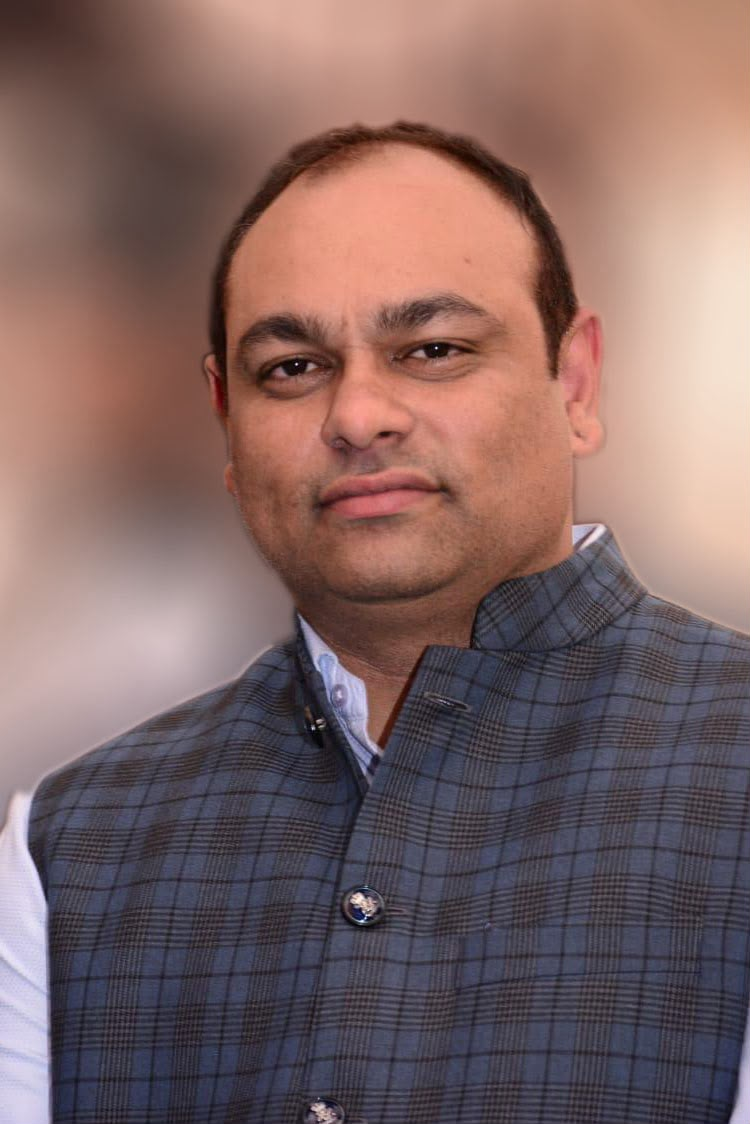
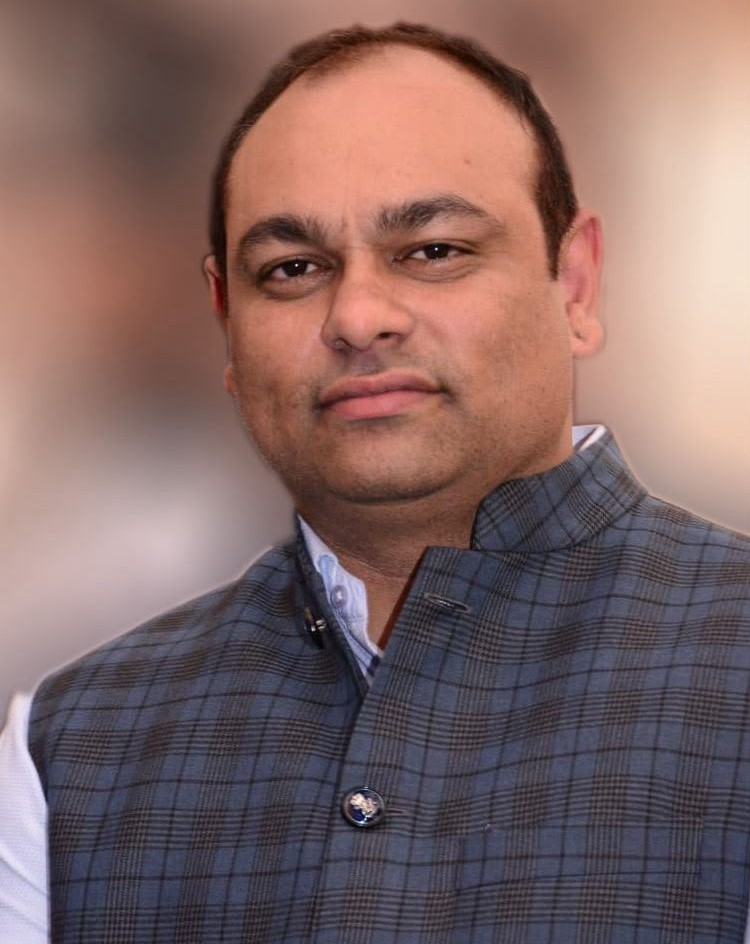
changed images

diff --git a/frontend/components/about/FounderSection.tsx b/frontend/components/about/FounderSection.tsx
@@ -28,26 +28,26 @@ export default function FounderSection() {
       {/* navy slanted panel behind the quote (desktop) */}
       <div
         aria-hidden
-        className="absolute inset-y-10 left-[33.5%] right-0 hidden bg-[#2a2a6b] lg:block 3xl:inset-y-14 3xl:left-[calc(50%-520px)] 4xl:inset-y-16 4xl:left-[calc(50%-640px)] [clip-path:polygon(0_12%,100%_0,100%_100%,0_88%)]"
+        className="absolute inset-y-10 left-[30.5%] right-0 hidden bg-[#2a2a6b] lg:block 3xl:inset-y-14 3xl:left-[calc(50%-520px)] 4xl:inset-y-16 4xl:left-[calc(50%-640px)] [clip-path:polygon(0_12%,100%_0,100%_100%,0_88%)]"
       />
       {/* small navy strip peeking on the left (desktop) */}
       <div
         aria-hidden
-        className="absolute bottom-[20%] left-0 top-[22%] 2xl:bottom-[18%] 2xl:top-[18%] hidden w-24 bg-[#2a2a6b] lg:block 3xl:w-[max(6rem,calc(50%-640px))] 4xl:w-[max(6rem,calc(50%-780px))]"
+        className="absolute bottom-[20%] left-0 top-[20%] 2xl:bottom-[18%] 2xl:top-[18%] hidden w-44 bg-[#2a2a6b] lg:block 3xl:w-[max(8rem,calc(50%-640px))] 4xl:w-[max(8rem,calc(50%-780px))]"
       />
 
-      <div className="relative mx-auto grid max-w-[90vw] items-center gap-0 sm:max-w-[85vw] lg:max-w-[1100px] 3xl:max-w-[1450px] 4xl:max-w-[1700px] lg:grid-cols-[400px_1fr] 3xl:grid-cols-[480px_1fr] 4xl:grid-cols-[540px_1fr] lg:gap-10 3xl:gap-16">
+      <div className="relative mx-auto grid max-w-[90vw] items-center gap-0 sm:max-w-[85vw] lg:max-w-[1100px] 3xl:max-w-[1450px] 4xl:max-w-[1700px] lg:grid-cols-[360px_1fr] 3xl:grid-cols-[440px_1fr] 4xl:grid-cols-[500px_1fr] lg:gap-10 3xl:gap-16">
         {/* Founder photo card */}
         <Reveal
           y={32}
-          className="relative z-10 mx-auto w-full max-w-[320px] sm:max-w-[380px] lg:mx-0 lg:max-w-none lg:-ml-[20px] xl:-ml-[107px] 3xl:-ml-[140px] 4xl:-ml-[160px]"
+          className="relative z-10 mx-auto w-full max-w-[320px] sm:max-w-[380px] lg:mx-0 lg:max-w-none lg:-ml-[0px] min-[1500px]:-ml-[77px] 3xl:-ml-[140px] 4xl:-ml-[160px]"
         >
-          <div className="relative h-[320px] w-full overflow-hidden rounded-[28px] border-[5px] border-white bg-[#2a2a6b] shadow-[0_16px_40px_rgba(42,42,107,0.25)] sm:h-[380px] sm:rounded-[36px] sm:border-[6px] md:h-[460px] 3xl:h-[540px] 4xl:h-[620px]">
+          <div className="relative h-[320px] w-full overflow-hidden rounded-[28px] border-[5px] border-white bg-[#2a2a6b] shadow-[0_16px_40px_rgba(42,42,107,0.25)] sm:h-[380px] sm:rounded-[36px] sm:border-[6px] md:h-[360px] xl:h-[400px] 3xl:h-[540px] 4xl:h-[620px]">
             <FadeImage
               src={founderImage}
               alt={`${OWNER}, founder of ${COMPANY}`}
               fill
-              sizes="(min-width: 1024px) 400px, 380px"
+              sizes="(min-width: 1024px) 360px, 380px"
               className="object-cover object-top"
             />
           </div>

diff --git a/frontend/components/sections/hero-section.tsx b/frontend/components/sections/hero-section.tsx
@@ -107,8 +107,8 @@ const defaultSlides: HeroSlide[] = [
     image: "/hero-backup/handmade.webp",
     heading: (
       <>
-        Woven Comfort. <em className="text-gold not-italic">Refined</em>{" "}
-        Interiors.
+        Elegance Underfoot.{""}{" "}
+        <em className="text-gold not-italic"> Comfort Within</em>
       </>
     ),
     description:
@@ -129,8 +129,8 @@ const defaultSlides: HeroSlide[] = [
     image: "/hero-backup/resilient-flooring.png",
     heading: (
       <>
-        Built to Last. <em className="text-gold not-italic">Designed</em> to
-        Impress.
+        Unmatched Durability.{" "}
+        <em className="text-gold not-italic"> Unrivaled Beauty</em>
       </>
     ),
     description:

diff --git a/frontend/app/about/page.tsx b/frontend/app/about/page.tsx
@@ -10,7 +10,7 @@ import ProcessSection from "@/components/about/process-section";
 import FounderSection from "@/components/about/FounderSection";
 import CoreValuesSection from "@/components/about/Corevaluessection";
 
-const heroImage = "/about.png";
+const heroImage = "/about.jpeg";
 
 export default function AboutPage() {
   return (
